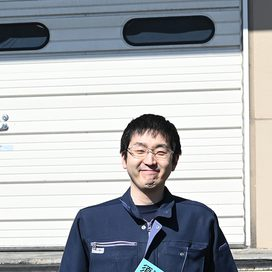
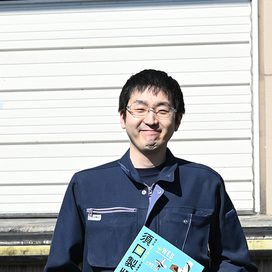
interview/st_somu.html: 総務部 S.T の社員インタビューページを追加
Y.Oのmain/avatarも頭の位置を揃えるため再トリミング

Claude-Session: https://claude.ai/code/session_01WDMSrumCZkTUewBUWtNBW3

diff --git a/interview/st_somu.html b/interview/st_somu.html
@@ -1,0 +1,370 @@
+<!DOCTYPE html>
+<html lang="ja">
+<head>
+  <meta charset="UTF-8">
+  <meta name="viewport" content="width=device-width, initial-scale=1">
+  <title>社員インタビュー S.T｜株式会社須田製版 採用サイト</title>
+  <meta name="description" content="株式会社須田製版の社員インタビュー。総務職 S.T の仕事内容・1日のスケジュール・メンバーと接する時に心がけていること・仕事上で大切にしていること・プライベートをご紹介します。">
+  <link rel="preconnect" href="https://fonts.googleapis.com">
+  <link rel="preconnect" href="https://fonts.gstatic.com" crossorigin>
+  <link href="https://fonts.googleapis.com/css2?family=Zen+Kaku+Gothic+New:wght@400;500;700&family=Zen+Maru+Gothic:wght@400;500&display=swap" rel="stylesheet">
+  <link rel="stylesheet" href="../css/layout.css">
+  <link rel="stylesheet" href="../css/common.css">
+  <link rel="stylesheet" href="../style.css">
+  <style>
+  /* ===== ヒーロー(crosstalk.htmlと同じ方式: ベタ水色帯 + 装飾イラスト) ===== */
+  .subHero { position: relative; display: grid;
+    grid-template-columns: minmax(0,1fr); grid-template-rows: minmax(0,1fr); }
+  .subHero > * { grid-area: 1 / 1; min-width: 0; min-height: 0;
+    justify-self: start; align-self: start; position: relative; }
+  .ivHeroSpacer { width: 1600px; height: 262px; }
+  .subHero::before {
+    content: ""; position: absolute; z-index: -1; top: 0; height: 204px;
+    left: 0; right: 0; background: #ace5fc; pointer-events: none;
+  }
+  .subHeroTitle { margin: 60px 0 0 325px; font-family: var(--fontMaru);
+    font-size: 56px; font-weight: 400; line-height: 1; letter-spacing: 0.28em;
+    color: #fff; text-shadow: 3px 4px 7px rgba(90,130,160,0.35); }
+  .ivHeroSub { margin: 140px 0 0 330px; font-family: var(--fontMaru);
+    font-size: 22px; font-weight: 500; letter-spacing: 0.22em; color: #fff; }
+  .breadcrumb { margin: 226px 0 0 330px; font-size: 21px; font-weight: 500;
+    letter-spacing: 0.1em; color: var(--colorBrand); }
+  .ivHeroArt { position: absolute; top: 0; right: 0; width: 860px; height: 204px;
+    pointer-events: none; z-index: 0; }
+
+  /* 本文の方眼紙背景を右だけ画面端まで延長 */
+  .subMain { position: relative; background-color: transparent; background-image: none; }
+  .subMain::before {
+    content: ""; position: absolute; z-index: -1; top: 0; bottom: 0; left: 0;
+    right: -58.3px; background-color: var(--colorPaper);
+    background-image:
+      repeating-linear-gradient(to right, rgba(90,204,249,0.085) 0 2px, transparent 2px 35.75px),
+      repeating-linear-gradient(to bottom, rgba(90,204,249,0.085) 0 2px, transparent 2px 35.75px);
+    pointer-events: none;
+  }
+  .subMain::after {
+    content: ""; position: absolute; z-index: 1; top: 0; left: -58.3px;
+    width: 1600px; height: 26px; pointer-events: none;
+    background-image: linear-gradient(#111,#111), linear-gradient(#111,#111),
+      linear-gradient(#111,#111), linear-gradient(#111,#111);
+    background-repeat: no-repeat;
+    background-position: 58px 0, 0 20px, 1499px 0, 1547px 0;
+    background-size: 1px 20px, 58px 1px, 97px 1px, 1px 18px;
+  }
+  @media (min-width: 1600px) {
+    .subHero::before { left: calc((1600px - 100vw) / 2); right: calc((1600px - 100vw) / 2); }
+    .subMain::before { right: calc(741.7px - 50vw); }
+  }
+
+  /* ===== プロフィール ===== */
+  .ivProfile { width: 1300px; margin: 46px auto 0; display: flex; gap: 54px; align-items: flex-start; }
+  .ivProfilePhoto { flex: none; width: 675px; }
+  .ivProfilePhoto img { width: 100%; height: auto; display: block; }
+  .ivProfileInfo { flex: 1; padding-top: 4px; }
+  .ivTag { text-align: right; margin: 0 0 22px; }
+  .ivTag span { display: inline-block; padding: 6px 22px; background: var(--colorYellow);
+    border-radius: 4px; font-size: 15px; font-weight: 700; letter-spacing: 0.08em; color: var(--colorText); }
+  .ivPill { display: inline-block; padding: 9px 30px; background: var(--colorBrand); color: #fff;
+    border-radius: 22px; font-size: 17px; font-weight: 700; letter-spacing: 0.08em; }
+  .ivName { margin-top: 22px; padding-bottom: 16px; font-size: 34px; font-weight: 700;
+    letter-spacing: 0.04em; color: var(--colorText); border-bottom: 1.5px solid var(--colorCyan); }
+  .ivName span { font-size: 23px; margin-left: 8px; }
+  .ivMeta { margin-top: 18px; font-size: 16px; line-height: 1.75; color: var(--colorText); }
+
+  /* ===== 2カラム本文セクション ===== */
+  .ivSection { width: 1000px; margin: 76px auto 0; display: flex; gap: 46px; align-items: flex-start; }
+  .ivSection.rev { flex-direction: row-reverse; }
+  .ivBody { flex: 1 1 0; min-width: 0; }
+  .ivFig { flex: none; width: 480px; }
+  .ivFig img { width: 100%; height: auto; display: block; border-radius: 2px; }
+  .ivFigCap { margin-top: 8px; font-size: 12px; color: #777; }
+  .ivColTitle { text-align: center; font-size: 22px; font-weight: 700; letter-spacing: 0.06em;
+    color: var(--colorText); padding-bottom: 14px; border-bottom: 1px solid #9ec7e0; }
+  .ivText { margin-top: 22px; font-size: 15px; line-height: 2.0; letter-spacing: 0.03em;
+    color: var(--colorText); text-align: justify; }
+
+  /* ===== 1日のスケジュール ===== */
+  .ivSchedule { width: 1160px; margin: 78px auto 0; background: #fcfcfa; border: 1px solid #e6e6de;
+    border-radius: 8px; padding: 40px 66px 30px; box-shadow: 0 3px 14px rgba(80,120,150,0.06); }
+  .ivSchedTitle { display: flex; align-items: center; justify-content: center; gap: 22px;
+    font-size: 22px; font-weight: 700; letter-spacing: 0.12em; color: var(--colorText); }
+  .ivSchedTitle::before, .ivSchedTitle::after { content: ""; width: 200px; max-width: 22%;
+    border-top: 2px dashed #6fb2df; }
+  .ivSchedGrid { margin-top: 36px; display: grid; grid-template-columns: 1fr 1fr; column-gap: 80px; }
+  .ivSchedCol { min-width: 0; }
+  .ivSchedItem { position: relative; display: grid; grid-template-columns: 22px 78px 1fr;
+    column-gap: 14px; padding-bottom: 40px; }
+  .ivSchedCol .ivSchedItem:last-child { padding-bottom: 4px; }
+  /* ドット間をつなぐ縦線 */
+  .ivSchedItem::before { content: ""; position: absolute; z-index: 0; left: 10px; top: 20px;
+    bottom: -2px; width: 2px; background: #ddd; display: none; }
+  .ivSchedItem.lPink::before { display: block; background: var(--colorPink); opacity: 0.6; }
+  .ivSchedItem.lCyan::before { display: block; background: var(--colorCyan); opacity: 0.75; }
+  /* ドット(カラーのリング) */
+  .ivDot { position: relative; z-index: 1; box-sizing: border-box; width: 16px; height: 16px;
+    margin-top: 3px; border-radius: 50%; background: #fff; }
+  .ivDot.cPink { border: 4px solid var(--colorPink); }
+  .ivDot.cCyan { border: 4px solid var(--colorCyan); }
+  .ivDot.cYellow { border: 4px solid var(--colorYellow); }
+  .ivSchedLabel b { display: block; font-size: 16px; font-weight: 700; letter-spacing: 0.02em; color: var(--colorText); }
+  .ivSchedLabel small { display: block; margin-top: 3px; font-size: 13px; color: var(--colorText); }
+  .ivSchedDesc { padding-top: 1px; font-size: 14px; line-height: 1.9; color: var(--colorText); }
+
+  /* ===== 他メンバー(社員インタビュー一覧 / index.htmlの memberList を流用) ===== */
+  .ivInterviewList { position: relative; margin-top: 80px; padding: 46px 0 34px; overflow: hidden; }
+  .ivInterviewList::before { content: ""; position: absolute; z-index: 0; left: 0; right: 0; top: 96px;
+    height: 300px; background: url(images/squigglePink.png) center / 2500px 300px no-repeat; pointer-events: none; }
+  .ivInterviewList .memberList { position: relative; z-index: 1; margin: 0; justify-content: center; }
+
+  /* ===== SP ===== */
+  @media (max-width: 767px) {
+    .ivHeroSpacer { width: 100%; height: auto; aspect-ratio: 1600 / 300; }
+    .subHeroTitle { margin: 6% 0 0 6%; font-size: 26px; }
+    .ivHeroSub { margin: 17% 0 0 6%; font-size: 13px; }
+    .breadcrumb { margin: 27% 0 0 5%; font-size: 12px; }
+    .ivHeroArt { display: none; }
+    .subMain::after { display: none; }
+    .subMain::before { right: 0; }
+    .ivProfile { width: auto; margin: 24px 16px 0; flex-direction: column; gap: 22px; }
+    .ivProfilePhoto { width: 100%; }
+    .ivSection { width: auto; margin: 44px 16px 0; flex-direction: column !important; gap: 20px; }
+    .ivFig { width: 100%; }
+    .ivSchedule { width: auto; margin: 44px 16px 0; padding: 28px 20px 10px; }
+    .ivSchedTitle { font-size: 18px; gap: 12px; }
+    .ivSchedTitle::before, .ivSchedTitle::after { width: 30px; }
+    .ivSchedGrid { grid-template-columns: 1fr; gap: 0; }
+    .ivInterviewList { margin-top: 40px; padding: 0; }
+    .ivInterviewList::before { display: none; }
+  }
+  </style>
+</head>
+<body class="subPage interviewPage">
+
+<!-- ===== SP用ヘッダー(768px未満のみ表示) ===== -->
+<header class="spHeader">
+  <p class="spHeaderLogo">
+    <a href="../index.html"><img src="../images/logoSuda.png" alt="株式会社 須田製版 採用サイト" width="207" height="44"></a>
+  </p>
+  <button class="spMenuBtn" type="button" aria-label="メニューを開く" aria-expanded="false" aria-controls="spDrawer">
+    <span class="spMenuBtnBar"></span>
+    <span class="spMenuBtnBar"></span>
+    <span class="spMenuBtnBar"></span>
+  </button>
+</header>
+
+<nav class="spDrawer" id="spDrawer" aria-label="グローバルナビゲーション(モバイル)">
+  <ul class="spDrawerList">
+    <li><a href="../about.html">私たちの会社</a></li>
+    <li><a href="../index.html#work">仕事・人を知る</a></li>
+    <li><a href="../recruit.html">募集要項</a></li>
+    <li><a href="#contact">お問い合わせ</a></li>
+    <li><a href="../faq.html">FAQ</a></li>
+  </ul>
+  <a class="officialSiteBtn spDrawerOfficialBtn" href="#" target="_blank" rel="noopener">須田製版公式サイト</a>
+</nav>
+
+<div class="pageScaler">
+<div class="page">
+
+  <!-- ===== 下層ヘッダー ===== -->
+  <header class="subHeader">
+    <p class="subHeaderLogo">
+      <a href="../index.html"><img src="../images/logoSuda.png" alt="株式会社 須田製版" width="207" height="44"></a>
+      <span class="subHeaderCaption">採用サイト</span>
+    </p>
+    <ul class="subNavList">
+      <li><a href="../about.html">私たちの会社</a></li>
+      <li><a href="../index.html#work">仕事を知る</a></li>
+      <li><a href="../index.html#interview">人を知る</a></li>
+      <li><a href="../recruit.html">募集要項</a></li>
+      <li><a href="../faq.html">FAQ</a></li>
+      <li><a href="#contact">お問合せ</a></li>
+    </ul>
+    <a class="officialSiteBtn subHeaderOfficialBtn" href="#" target="_blank" rel="noopener">須田製版公式サイト</a>
+  </header>
+
+  <!-- ===== ヒーロー帯 ===== -->
+  <div class="subHero">
+    <div class="ivHeroSpacer" aria-hidden="true"></div>
+    <img class="ivHeroArt" src="../images/heroInterviewList.png" alt="" aria-hidden="true" width="860" height="204">
+    <h1 class="subHeroTitle">人を知る</h1>
+    <p class="ivHeroSub">社員インタビュー</p>
+    <p class="breadcrumb"><a href="../index.html">TOP</a><span class="breadcrumbSep">＞</span><a href="../index.html#work">仕事・人を知る</a></p>
+  </div>
+
+  <!-- ===== メイン ===== -->
+  <main class="subMain">
+
+    <!-- プロフィール -->
+    <div class="ivProfile">
+      <div class="ivProfilePhoto"><img src="../images/interview_st_somu_main.jpg" alt="S.Tさん" width="675" height="439"></div>
+      <div class="ivProfileInfo">
+        <p class="ivTag"><span>2026年　取材当時</span></p>
+        <p class="ivPill">札幌本社　総務部</p>
+        <p class="ivName">S.T<span>30代</span></p>
+        <p class="ivMeta">2023年入社</p>
+        <p class="ivMeta">専門学校札幌デザイナー学院</p>
+      </div>
+    </div>
+
+    <!-- 私の仕事内容 (テキスト左 / 写真右) -->
+    <section class="ivSection">
+      <div class="ivBody">
+        <h2 class="ivColTitle">私の仕事内容</h2>
+        <p class="ivText">私の仕事内容は、社内の業務が円滑に進むよう、総務業務全般を担当することです。日々の業務では、費用管理や勤務管理、各種手続きの対応、社内からの問い合わせ対応などを行っています。正確さとスピードを意識しながら、状況に応じた柔軟な対応を心がけています。また、業務の優先順位を意識し、漏れのない対応を行うことを大切にしています。業務を通じて改善点を見つけ、少しずつ業務効率の向上にも取り組んでいます。</p>
+      </div>
+      <div class="ivFig"><img src="../images/interview_st_somu_sub01.jpg" alt="社内を歩くS.Tさん" width="390" height="318"></div>
+    </section>
+
+    <!-- 1日のスケジュール -->
+    <div class="ivSchedule">
+      <p class="ivSchedTitle">1日のスケジュール</p>
+      <div class="ivSchedGrid">
+        <div class="ivSchedCol">
+          <div class="ivSchedItem lPink">
+            <span class="ivDot cPink"></span>
+            <div class="ivSchedLabel"><b>8:30</b><small>出社</small></div>
+            <p class="ivSchedDesc">10分前行動を心がけていますが、朝はいつもギリギリです。</p>
+          </div>
+          <div class="ivSchedItem lPink">
+            <span class="ivDot cPink"></span>
+            <div class="ivSchedLabel"><b>9:00</b><small>事務</small></div>
+            <p class="ivSchedDesc">午前のスケジュールを確認し、業務に取り掛かります。</p>
+          </div>
+          <div class="ivSchedItem">
+            <span class="ivDot cYellow"></span>
+            <div class="ivSchedLabel"><b>12:00</b><small>ランチ</small></div>
+            <p class="ivSchedDesc">お昼はいつも持参しています。</p>
+          </div>
+        </div>
+        <div class="ivSchedCol">
+          <div class="ivSchedItem lCyan">
+            <span class="ivDot cCyan"></span>
+            <div class="ivSchedLabel"><b>13:00</b><small>事務</small></div>
+            <p class="ivSchedDesc">午後のスケジュールを確認し、業務に取り掛かります。</p>
+          </div>
+          <div class="ivSchedItem lCyan">
+            <span class="ivDot cCyan"></span>
+            <div class="ivSchedLabel"><b>16:00</b><small>事務</small></div>
+            <p class="ivSchedDesc">1日の終わりに行う定例業務を行います。</p>
+          </div>
+          <div class="ivSchedItem">
+            <span class="ivDot cCyan"></span>
+            <div class="ivSchedLabel"><b>17:30</b><small>退勤</small></div>
+            <p class="ivSchedDesc">明日のスケジュールを調整し、退勤します。</p>
+          </div>
+        </div>
+      </div>
+    </div>
+
+    <!-- メンバーと接する時に心がけていること (写真左 / テキスト右) -->
+    <section class="ivSection rev">
+      <div class="ivBody">
+        <h2 class="ivColTitle">メンバーと接する時に心がけていること</h2>
+        <p class="ivText">メンバーと接する際には、まず相手の話をしっかり聞くことを心がけています。経験や立場によって考え方が異なることを意識し、自分の意見を押し付けないよう注意しています。また、分からないことは素直に相談し、助けてもらった際には感謝を伝えることを大切にしています。日々のコミュニケーションを通じて信頼関係を築き、安心して意見交換ができる雰囲気づくりを意識しながら、円滑に仕事を進められるよう努めています。</p>
+      </div>
+      <div class="ivFig"><img src="../images/interview_st_somu_sub02.jpg" alt="受付に立つS.Tさん" width="479" height="319"></div>
+    </section>
+
+    <!-- 仕事上で大切にしていること (テキスト左 / 写真右) -->
+    <section class="ivSection">
+      <div class="ivBody">
+        <h2 class="ivColTitle">仕事上で大切にしていること</h2>
+        <p class="ivText">仕事上で大切にしていることは、責任感を持って業務に取り組むことと、周囲との信頼関係を大切にする姿勢です。相手の意図や背景を考えながら行動し、分かりやすい報連相を心がけています。経験を重ねる中で、自分で考えて動く場面も増えてきましたが、分からない点は早めに確認し、任された業務に責任を持って安定した対応ができるよう意識しています。また、日々の業務を通じて、自身の課題や改善点を振り返り、少しずつ成長につなげていく姿勢を大切にしています。</p>
+      </div>
+      <div class="ivFig"><img src="../images/interview_st_somu_sub03.jpg" alt="メンバーと打ち合わせをするS.Tさん" width="498" height="318"></div>
+    </section>
+
+    <!-- プライベートの話 (写真左 / テキスト右) -->
+    <section class="ivSection rev">
+      <div class="ivBody">
+        <h2 class="ivColTitle">プライベートの話</h2>
+        <p class="ivText">プライベートでは、仕事と生活のメリハリを大切にすることを心がけています。休日は趣味の時間を楽しんだり、家でゆっくり過ごしたりすることで、気持ちをリフレッシュしています。また、家族や友人との時間を通じて気分転換を図り、心身のバランスを整えるよう意識しています。季節を感じられる場所に出かけることも多く、日常生活で得た気づきや経験を、仕事にも前向きに活かしていきたいと考えています。写真は、昨年見に行った菜の花畑です。</p>
+      </div>
+      <div class="ivFig">
+        <img src="../images/interview_st_somu_pv.jpg" alt="菜の花畑" width="487" height="356">
+        <p class="ivFigCap">本人撮影</p>
+      </div>
+    </section>
+
+    <!-- 他メンバー(社員インタビュー一覧 / index.htmlのパーツを流用) -->
+    <div class="ivInterviewList">
+      <ul class="memberList">
+        <li class="memberItem memberMiura">
+          <a href="#"><img src="../images/memberMiura.png" alt="社員インタビュー：営業" width="314" height="295"></a>
+        </li>
+        <li class="memberItem memberKojima">
+          <a href="#"><img src="../images/memberKojima.png" alt="社員インタビュー：営業" width="314" height="295"></a>
+        </li>
+        <li class="memberItem memberTakada">
+          <a href="#"><img src="../images/memberTakada.png" alt="社員インタビュー：営業 課長補佐" width="318" height="295"></a>
+        </li>
+        <li class="memberItem memberIrie">
+          <a href="#"><img src="../images/memberIrie.png" alt="社員インタビュー：制作 次長" width="314" height="300"></a>
+        </li>
+        <li class="memberItem memberChida">
+          <a href="#"><img src="../images/memberChida.png" alt="社員インタビュー：制作 課長補佐" width="317" height="295"></a>
+        </li>
+      </ul>
+    </div>
+
+    <a class="pillBtn backBtn" href="../index.html#interview"><span class="backBtnLabel">戻る</span></a>
+  </main>
+
+  <!-- 下部トンボ+CMYKストリップ(装飾・PCのみ) -->
+  <img class="bottomStrip pcOnly" src="../images/bottomStrip.png" alt="" width="1597" height="81">
+
+  <!-- ===== フッター(index.htmlと共通) ===== -->
+  <footer class="footer" id="contact">
+    <div class="footerBrand">
+      <p class="footerLogo">
+        <img src="../images/logoSuda.png" alt="株式会社 須田製版" width="207" height="44">
+        <span class="footerLogoEn">SUDA SEIHAN Co., Ltd.</span>
+      </p>
+      <a class="footerOfficialBtn" href="#" target="_blank" rel="noopener">須田製版公式サイト</a>
+      <p class="footerAddress">
+        ［代表］〒063-8603 北海道札幌市西区二十四軒2条6丁目1番8号<br>
+        <span class="footerAddressIndent">TEL：011-621-1000<br>
+        月〜金曜日・8:30 〜 17:30</span>
+      </p>
+    </div>
+
+    <nav class="footerNav" aria-label="フッターナビゲーション">
+      <div class="footerNavCol footerNavCol1">
+        <p class="footerNavHead"><a href="../about.html">私たちの会社</a></p>
+        <ul class="footerNavList">
+          <li><a href="../about.html">・採用メッセージ</a></li>
+          <li><a href="../about.html">・経営理念</a></li>
+          <li><a href="../about.html">・数字で見る須田製版</a></li>
+        </ul>
+      </div>
+      <div class="footerNavCol footerNavCol2">
+        <p class="footerNavHead"><a href="../index.html#work">仕事・人を知る</a></p>
+        <p class="footerNavSub">営業職 / 制作職 / 工場職 / 管理部</p>
+        <ul class="footerNavList footerNavListIndent">
+          <li><a href="index.html">・社員インタビュー一覧</a></li>
+          <li><a href="../crosstalk.html">・若手社員座談会</a></li>
+          <li><a href="#">・営業白書</a></li>
+        </ul>
+      </div>
+      <div class="footerNavCol footerNavCol3">
+        <p class="footerNavHead"><a href="../recruit.html">募集要項</a></p>
+        <ul class="footerNavList">
+          <li><a href="../recruit.html">・新卒募集</a></li>
+          <li><a href="../recruit.html">・中途募集</a></li>
+          <li><a href="../recruit.html">・福利厚生</a></li>
+        </ul>
+      </div>
+      <div class="footerNavCol footerNavCol4">
+        <p class="footerNavHead footerNavHeadFaq"><a href="../faq.html">ＦＡＱ</a></p>
+        <p class="footerNavHead footerNavHeadContact"><a href="#contact">お問合せ</a></p>
+      </div>
+    </nav>
+  </footer>
+
+</div><!-- /.page -->
+</div><!-- /.pageScaler -->
+
+<script src="../js/script.js"></script>
+</body>
+</html>

diff --git a/interview/index.html b/interview/index.html
@@ -228,7 +228,13 @@
 
       <div class="iwCategory">
         <p class="iwCategoryTitle">総務</p>
-        <div class="iwCategoryRow"></div>
+        <div class="iwCategoryRow">
+          <a class="iwMemberCard" href="st_somu.html">
+            <span class="iwMemberPhoto"><img src="../images/interview_st_somu_avatar.jpg" alt=""></span>
+            <span class="iwMemberName">S.T</span>
+            <span class="iwMemberRole">総務部</span>
+          </a>
+        </div>
       </div>
     </section>
 